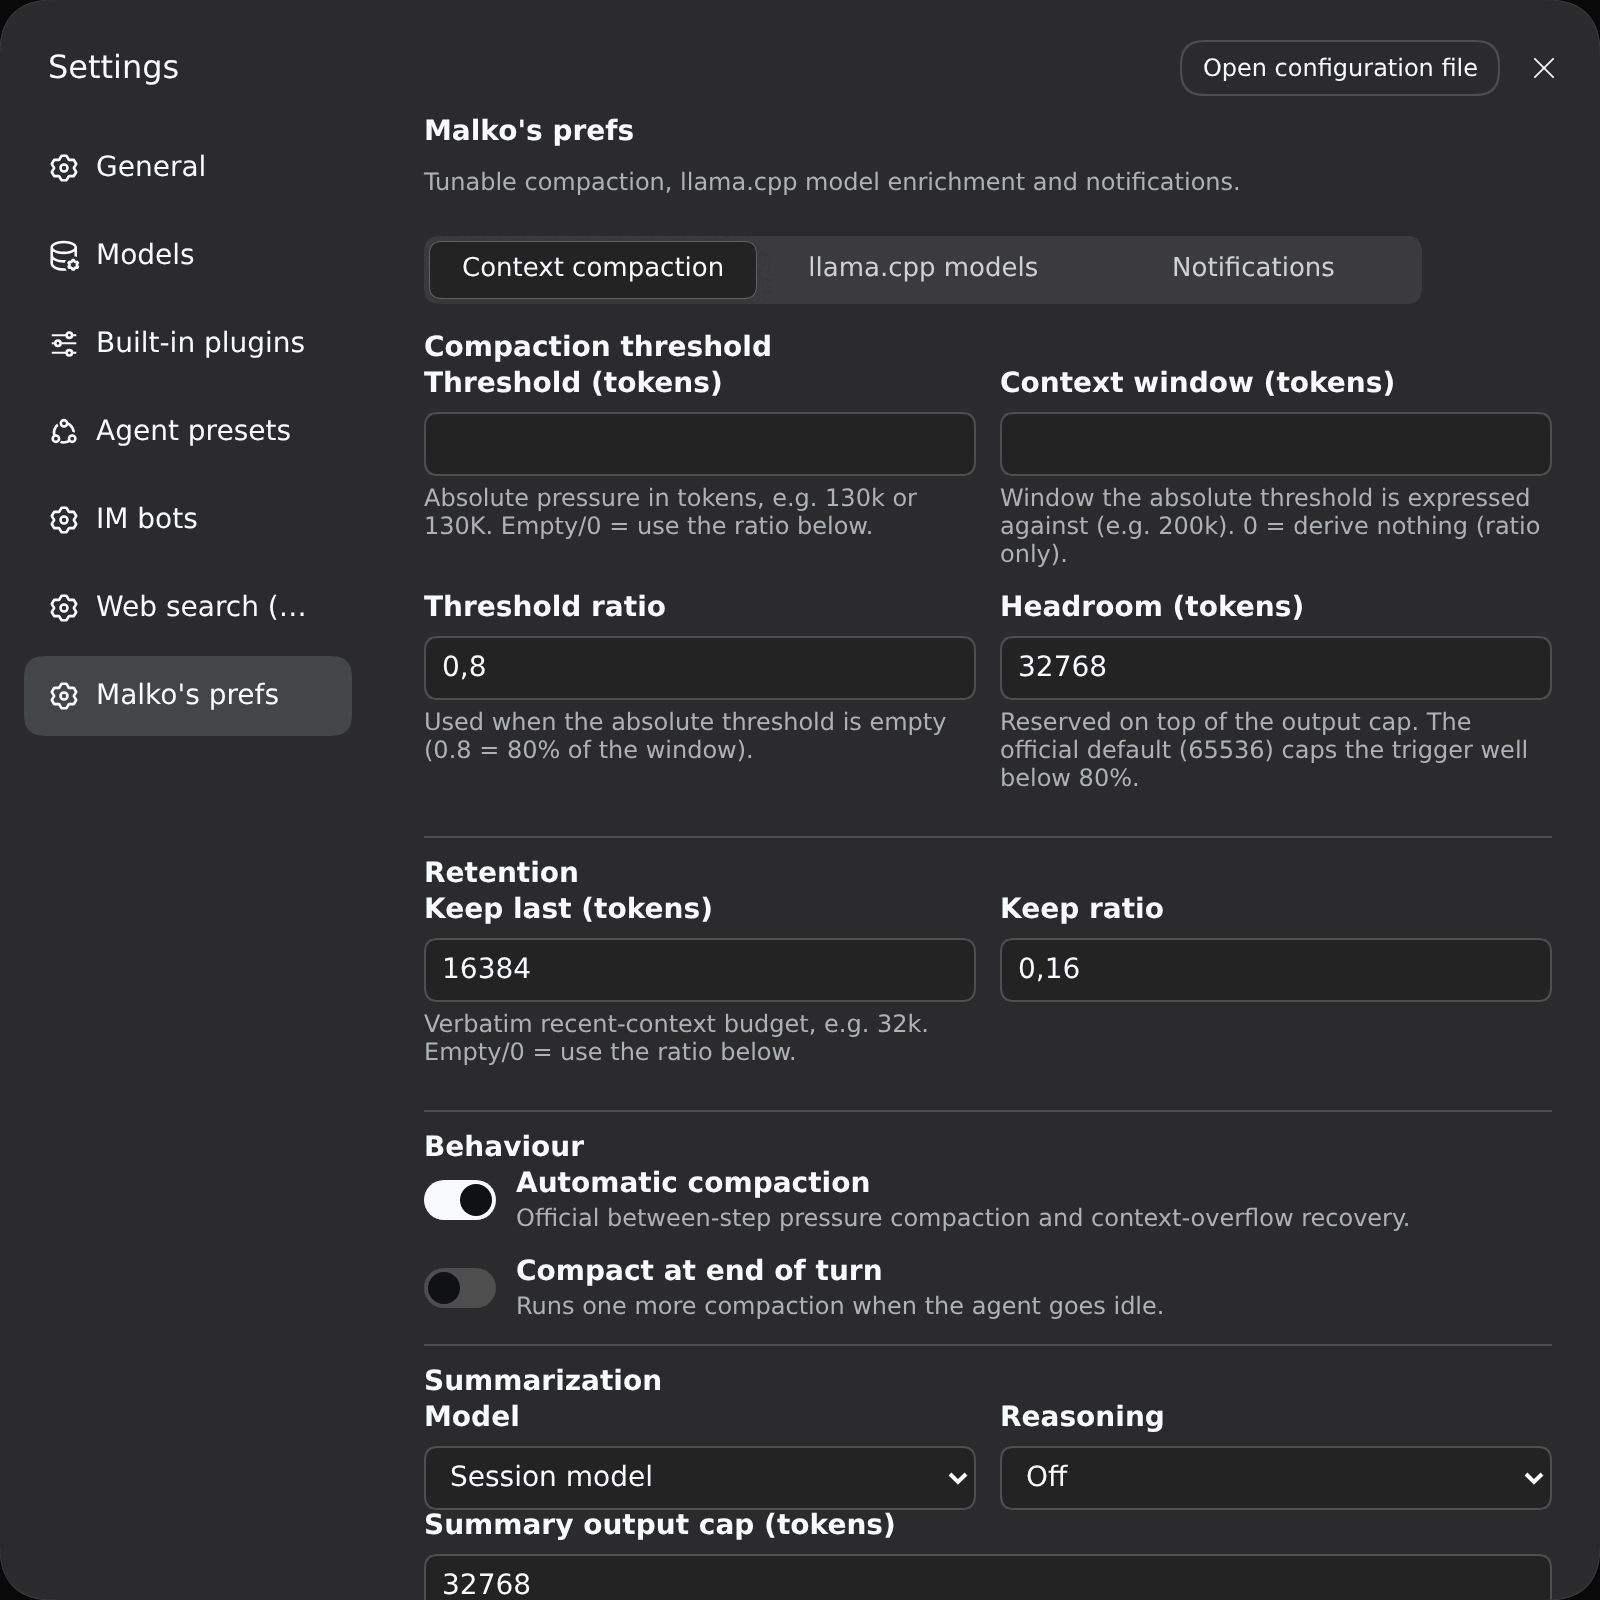
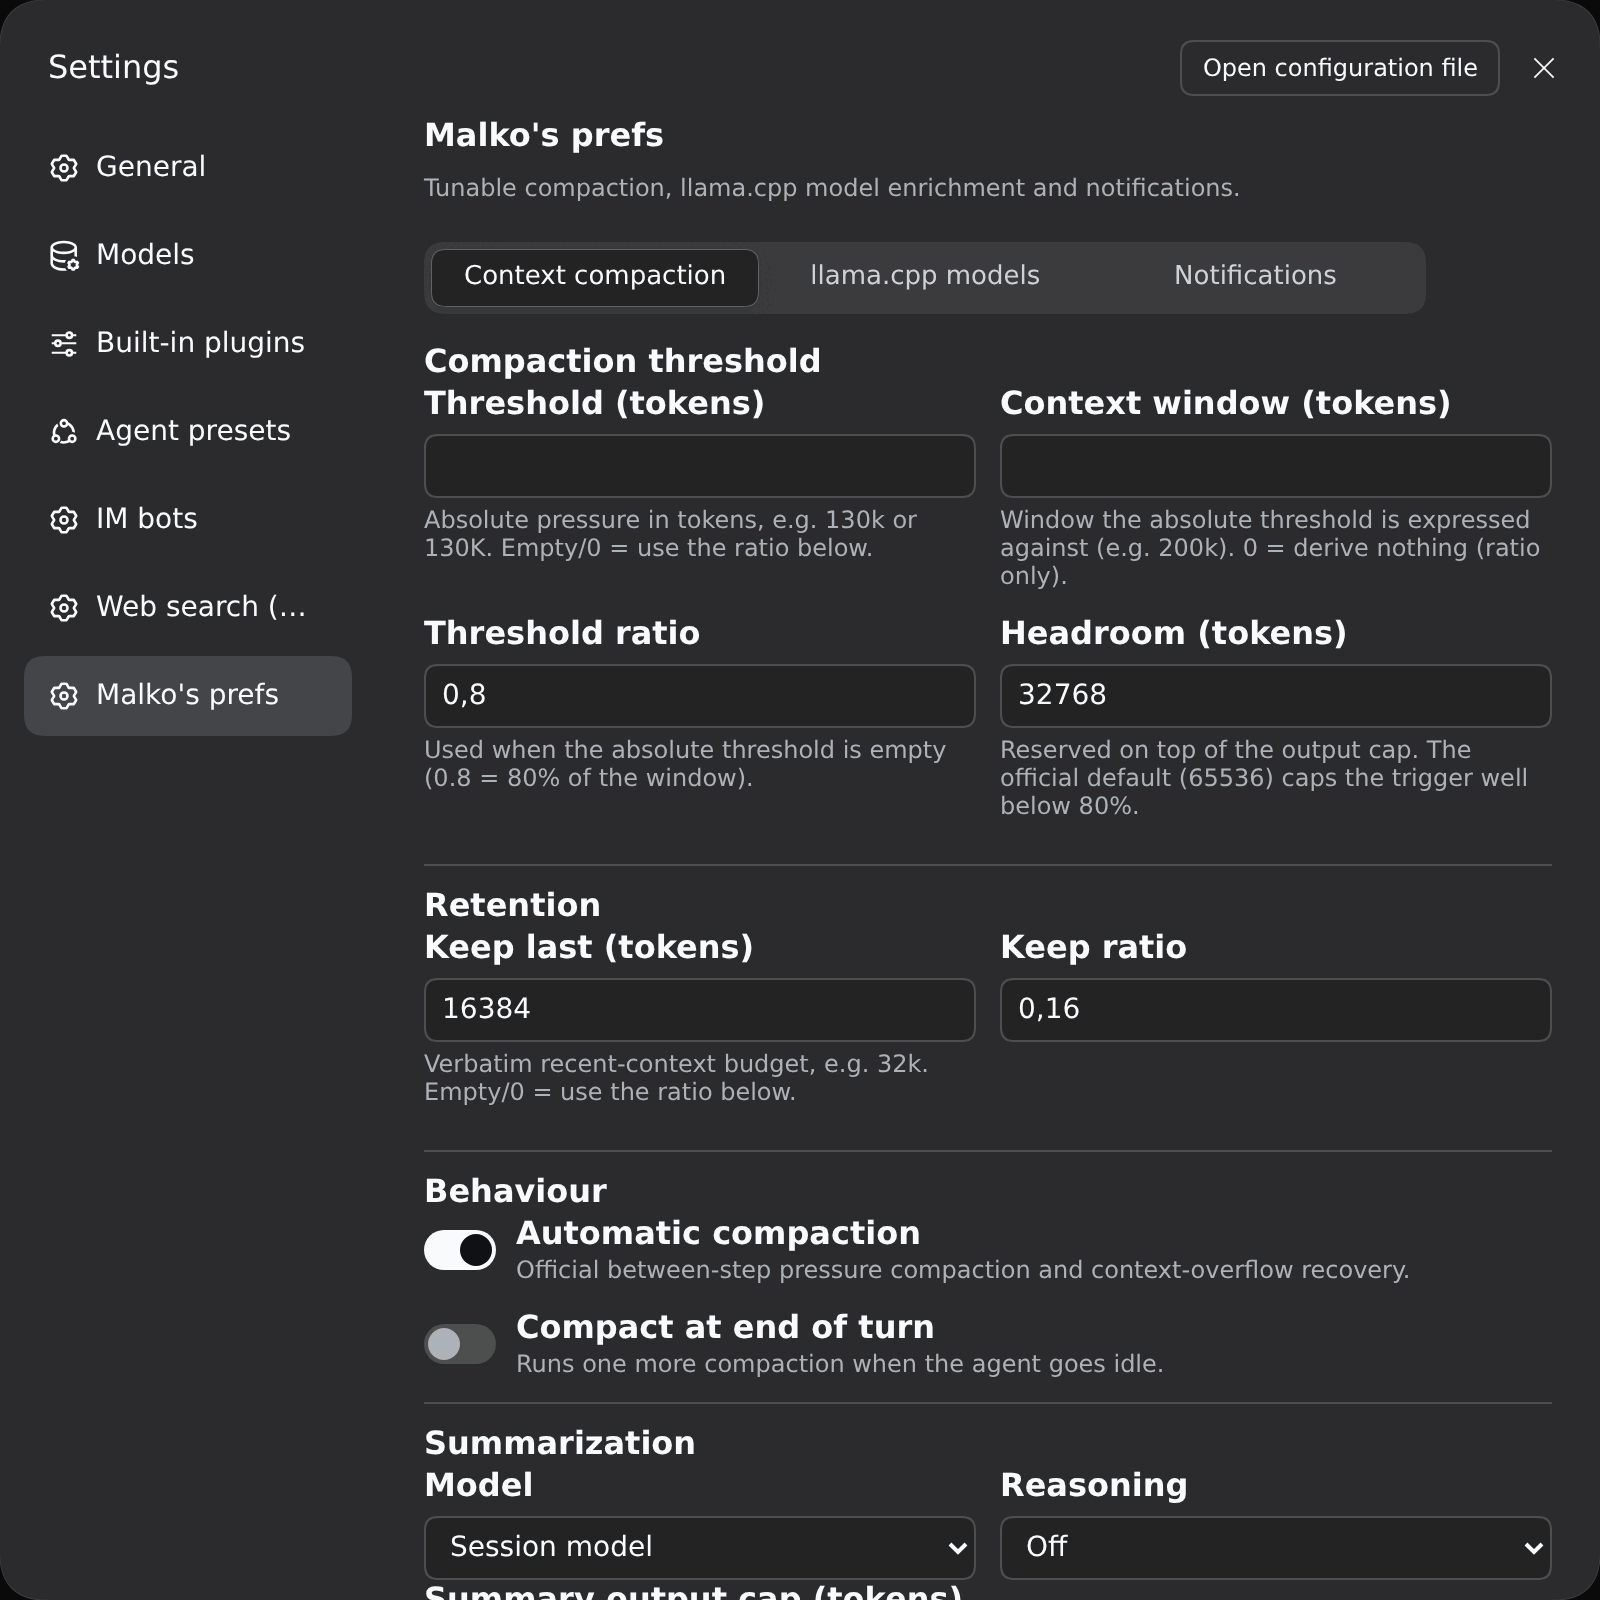
📝 Refresh settings screenshots and note 0.2.0-rc.2 compatibility
Re-capture the four settings screenshots on dsh 0.2.0-rc.2 (they now show the
two per-type keep-on-screen toggles); real provider endpoints were masked by
capturing under an ephemeral fake-provider overlay. Also document that the
plugin is tested on 0.1.7-rc.2 and 0.2.0-rc.2.

diff --git a/README.md b/README.md
@@ -29,7 +29,7 @@ page, and **tab notifications**, packaged as a single dsh bundle.
 
 - **dsh ≥ `0.1.7-rc.1`** — built on the current settings domain (`Config`
   fields marked `.volatile()` on the Host, `ctx.configForms` on the Client) and
-  on `BasicCompactionEngine`.
+  on `BasicCompactionEngine`. Tested on `0.1.7-rc.2` and `0.2.0-rc.2`.
 - A working `llm-pi-ai` provider (e.g. your llama.cpp server) for the model
   enrichment.
 
@@ -158,8 +158,9 @@ selected by `prefers-color-scheme`).
 **System notifications** — a browser notification on session completion or on a
 new pending interaction, with the session name as the title. Defaults to only
 firing when the tab is not in the foreground (visible **and** focused); enable
-**Notify in the foreground** to also fire while you watch, and **Keep on
-screen** to stop the notification from auto-hiding. Enabling notifications asks
+**Notify in the foreground** to also fire while you watch, and one of the two
+per-type **Keep on screen** toggles (finished / waiting) to stop that
+notification from auto-hiding. Enabling notifications asks
 the browser for permission once.
 
 **Sound** — two selectors (finished / waiting), each defaulting to **No sound**.
@@ -178,7 +179,8 @@ until you have interacted with the page at least once.
 | Finished / Waiting / Working / Idle color | `green` / `amber` / `working` / `black` | official sidebar colors for green/amber, blue for working; `black` empty = official favicon |
 | Enable notifications | `notifyEnabled` | **off** |
 | Notify in the foreground | `notifyForeground` | off |
-| Keep on screen | `notifyPersistent` | off (auto-hide) |
+| Keep finished on screen | `notifyDonePersistent` | off (auto-hide) |
+| Keep waiting on screen | `notifyPendingPersistent` | off (auto-hide) |
 | Volume | `notifyVolume` | `0.6` |
 | Sound on finished / waiting | `notifyDoneSound` / `notifyPendingSound` | `none` (silent) |
 
